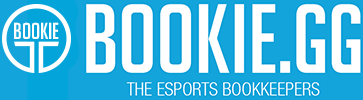
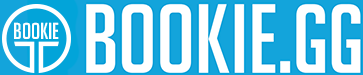
header: remove slogan

diff --git a/resources/assets/less/app.less b/resources/assets/less/app.less
@@ -49,8 +49,8 @@ a {
 		div {
 			background: url('../../images/header.png');
 			width: 363px;
-			height: 100px;
-			margin: 0 auto;
+			height: 75px;
+			margin: 13px auto 12px auto;
 		}
 	}
 
